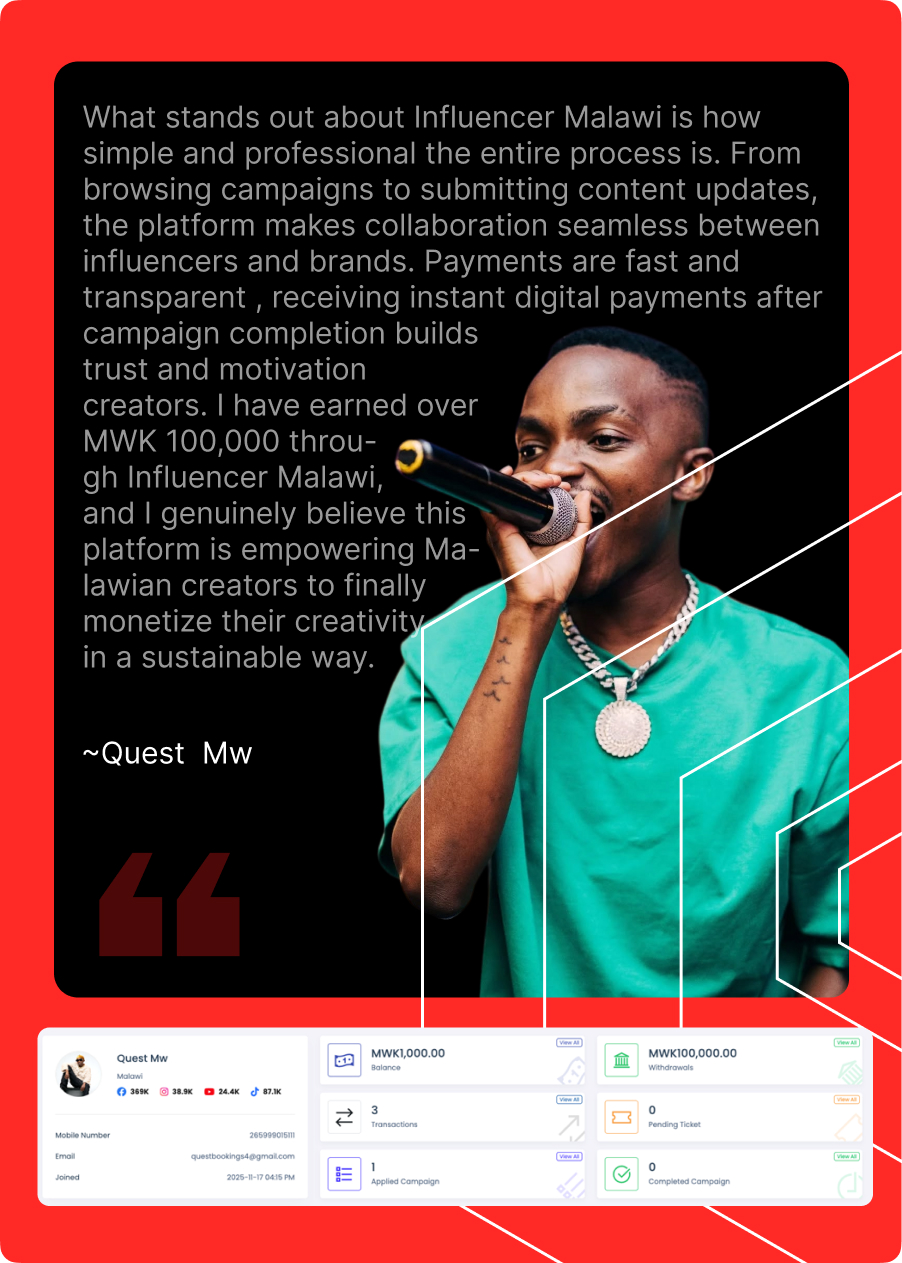
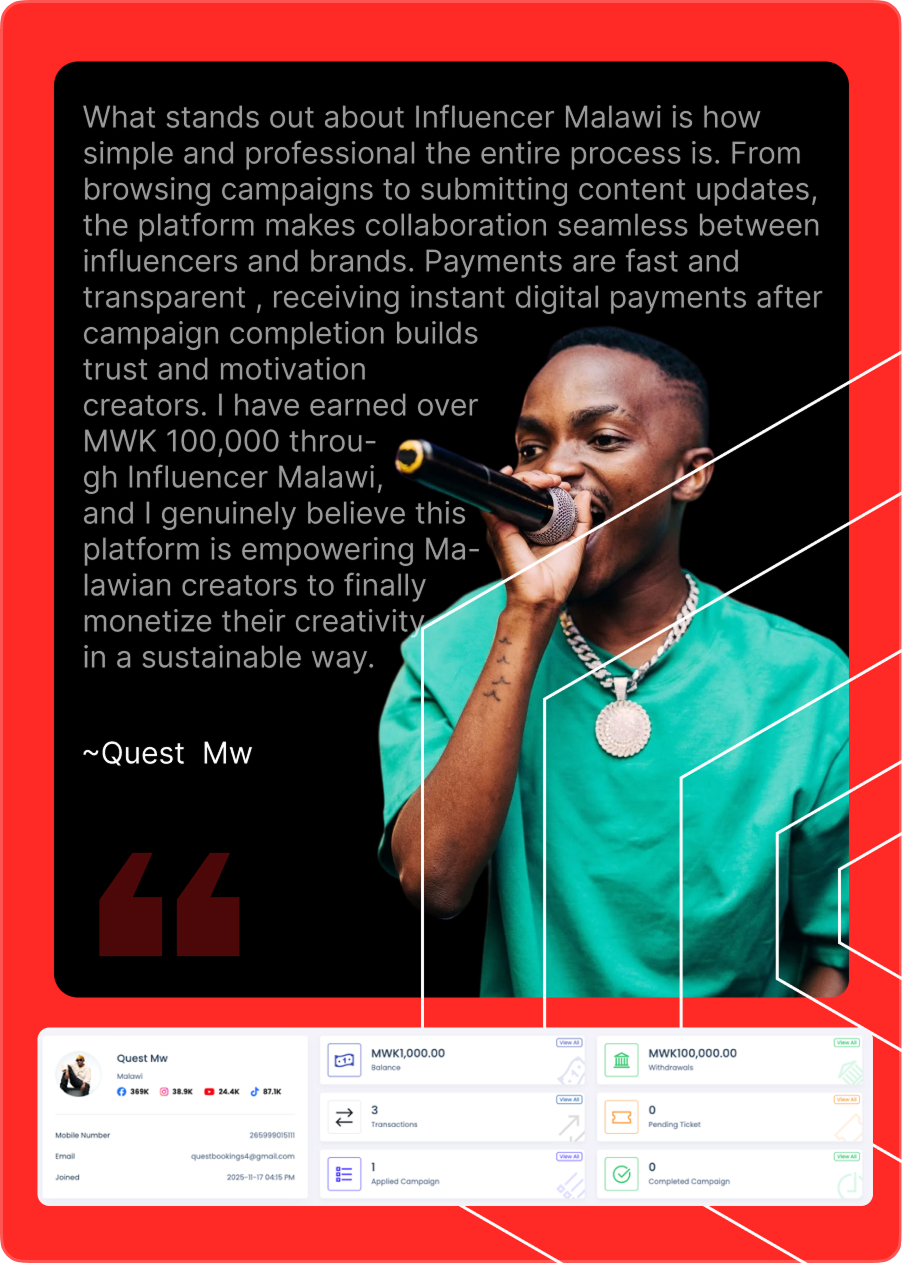
added leads desk and new poster

Changed region(s): [[0.0, 0.0, 1.0, 1.0]]

diff --git a/pages/leads_desk.html b/pages/leads_desk.html
@@ -287,7 +287,7 @@
             position: absolute;
             inset: 12px; /* same inset used for other card-media placeholders */
             border-radius: 14px;
-            background: #F7F7F7;
+            background: #EDEDEE;
             z-index: 1;
         }
         #first-grid-media img,
@@ -427,7 +427,7 @@
             position: absolute;
             inset: 0px;
             border-radius: 14px;
-            background: #F7F7F7;
+            background: #EAEAEB;
             z-index: 1;
             /* ensure placeholder has no shadow */
             box-shadow: none;
@@ -506,20 +506,20 @@
         <span class="project-text" tabindex="0">Projects</span>
         <!-- Action buttons aligned to the far right -->
         <div class="top-right-actions">
-            <a class="top-tag" href="https://salesverse-rho.vercel.app/" target="_blank" rel="noopener noreferrer">
+            <a class="top-tag" href="https://leads-desk-u2k4.vercel.app/" target="_blank" rel="noopener noreferrer">
                 <svg width="21" height="21" viewBox="0 0 24 24" fill="currentColor" style="flex-shrink:0;"><path d="M12 2C6.48 2 2 6.48 2 12s4.48 10 10 10 10-4.48 10-10S17.52 2 12 2zm-1 17.93c-3.95-.49-7-3.85-7-7.93 0-.62.08-1.21.21-1.79L9 15v1c0 1.1.9 2 2 2v1.93zm6.9-2.54c-.26-.81-1-1.39-1.9-1.39h-1v-3c0-.55-.45-1-1-1H8v-2h2c.55 0 1-.45 1-1V7h2c1.1 0 2-.9 2-2v-.41c2.93 1.19 5 4.06 5 7.41 0 2.08-.8 3.97-2.1 5.39z"/></svg>
                 View Website
             </a>
-<!--            <a class="top-tag" href="https://github.com/twambie62/track-it-website-2" target="_blank" rel="noopener noreferrer">-->
-<!--                <svg width="21" height="21" viewBox="0 0 24 24" fill="currentColor" style="flex-shrink:0;"><path d="M12 2C6.477 2 2 6.484 2 12.017c0 4.425 2.865 8.18 6.839 9.504.5.092.682-.217.682-.483 0-.237-.008-.868-.013-1.703-2.782.605-3.369-1.343-3.369-1.343-.454-1.158-1.11-1.466-1.11-1.466-.908-.62.069-.608.069-.608 1.003.07 1.531 1.032 1.531 1.032.892 1.53 2.341 1.088 2.91.832.092-.647.35-1.088.636-1.338-2.22-.253-4.555-1.113-4.555-4.951 0-1.093.39-1.988 1.029-2.688-.103-.253-.446-1.272.098-2.65 0 0 .84-.27 2.75 1.026A9.564 9.564 0 0112 6.844c.85.004 1.705.115 2.504.337 1.909-1.296 2.747-1.027 2.747-1.027.546 1.379.202 2.398.1 2.651.64.7 1.028 1.595 1.028 2.688 0 3.848-2.339 4.695-4.566 4.943.359.309.678.92.678 1.855 0 1.338-.012 2.419-.012 2.747 0 .268.18.58.688.482A10.019 10.019 0 0022 12.017C22 6.484 17.522 2 12 2z"/></svg>-->
-<!--                View Code-->
-<!--            </a>-->
+                        <a class="top-tag" href="https://github.com/twambie62/leads-desk" target="_blank" rel="noopener noreferrer">
+                            <svg width="21" height="21" viewBox="0 0 24 24" fill="currentColor" style="flex-shrink:0;"><path d="M12 2C6.477 2 2 6.484 2 12.017c0 4.425 2.865 8.18 6.839 9.504.5.092.682-.217.682-.483 0-.237-.008-.868-.013-1.703-2.782.605-3.369-1.343-3.369-1.343-.454-1.158-1.11-1.466-1.11-1.466-.908-.62.069-.608.069-.608 1.003.07 1.531 1.032 1.531 1.032.892 1.53 2.341 1.088 2.91.832.092-.647.35-1.088.636-1.338-2.22-.253-4.555-1.113-4.555-4.951 0-1.093.39-1.988 1.029-2.688-.103-.253-.446-1.272.098-2.65 0 0 .84-.27 2.75 1.026A9.564 9.564 0 0112 6.844c.85.004 1.705.115 2.504.337 1.909-1.296 2.747-1.027 2.747-1.027.546 1.379.202 2.398.1 2.651.64.7 1.028 1.595 1.028 2.688 0 3.848-2.339 4.695-4.566 4.943.359.309.678.92.678 1.855 0 1.338-.012 2.419-.012 2.747 0 .268.18.58.688.482A10.019 10.019 0 0022 12.017C22 6.484 17.522 2 12 2z"/></svg>
+                            View Code
+                        </a>
         </div>
     </div>
 
     <!-- Row 1: Title left, Tags right -->
     <div class="header-row-1">
-        <div class="header-title">SalesVerse Website:<br>A B2B lead-generation Agency</div>
+        <div class="header-title">LeadsDesk: Lead management system</div>
         <div class="header-tags">
             <span>UI/UX Design</span>
             <span>Web Design</span>
@@ -531,20 +531,20 @@
 
     <!-- Header image spanning full width -->
     <div class="header-hero-img" style="max-width:1200px; margin:0 auto 24px;">
-        <img class="header-main-img" src="../assets/images/portifolio/salesVerse/hero_section.png"
+        <img class="header-main-img" src="../assets/images/portifolio/leads_desk/dashboard.png"
              alt="Track It Landing Page"
-             style="width:100%; padding:48px; display:block; border-radius:20px; background:#F0F0F0; box-sizing:border-box;" />
+             style="width:100%; padding:48px; display:block; border-radius:20px; background:#EDEDEE; box-sizing:border-box;" />
     </div>
 
     <!-- Overview meta section -->
     <div class="proj-meta-card">
         <div class="proj-meta-col">
             <span class="proj-meta-label">Role</span>
-            <span class="proj-meta-value">UI Designer & Developer</span>
+            <span class="proj-meta-value">Developer</span>
         </div>
         <div class="proj-meta-col">
-            <span class="proj-meta-label">Client</span>
-            <span class="proj-meta-value">SalesVerse</span>
+            <span class="proj-meta-label">Type</span>
+            <span class="proj-meta-value">Personal</span>
         </div>
         <div class="proj-meta-col">
             <span class="proj-meta-label">Platform</span>
@@ -561,7 +561,7 @@
     <!-- Row 3: Description full width -->
     <div class="header-row-3">
         <div class="header-description">
-            A landing page for a B2B lead-generation and appointment-setting agency. The design emphasizes trust, credibility, and a clear value proposition, with a clean, professional layout built to convert visiting prospects into qualified leads.
+            A full-stack lead management system for sales teams, with separate dashboards for admins and agents. The design focuses on clarity and speed, covering the full lead lifecycle, follow-up tracking, reporting, and audit logs in a clean, organized interface that keeps teams focused on closing deals.
         </div>
     </div>
     <div class="overview-title">UI Designs</div>
@@ -569,7 +569,7 @@
     <div class="kwacha-grid" style="grid-template-columns:1fr;">
         <div class="kwacha-card">
             <div class="kwacha-media" id="first-grid-media">
-                <img id="first-grid-img" src="../assets/images/portifolio/salesVerse/landing_page.png" alt="Track It Landing Page" />
+                <img id="first-grid-img" src="../assets/images/portifolio/leads_desk/dashboard_full.png" alt="Track It Landing Page" />
             </div>
             <div class="kwacha-body"></div>
         </div>

diff --git a/index.html b/index.html
@@ -3388,6 +3388,23 @@
                         </article>
                     </a>
 
+                    <a href="pages/leads_desk.html" class="card-link" data-category="ui-design ">
+                        <article class="card">
+                            <div class="card-media" style="--card-bg-img: url('assets/images/projects/backgrounds/smart_apps_redesign.png');">
+                                <img src="assets/images/portifolio/leads_desk/dashboard.png" alt="Smart Apps Redesign">
+                                <div class="card-arrow"><i class="ri-arrow-right-up-line"></i></div>
+                            </div>
+                            <div class="card-body">
+                                <div class="card-title">LeadsDesk</div>
+                                <div class="card-desc">A full-stack lead management platform with admin and agent dashboards, follow-ups, and audit logging</div>
+                                <div class="card-tags">
+                                    <span>UI/UX</span>
+                                    <span>Web Design</span>
+                                </div>
+                            </div>
+                        </article>
+                    </a>
+
                     <a href="pages/sales_verse_website.html" class="card-link" data-category="ui-design ">
                         <article class="card">
                             <div class="card-media" style="--card-bg-img: url('assets/images/projects/backgrounds/sales_verse_2.png');">
@@ -3459,6 +3476,7 @@
                             </div>
                         </article>
                     </a>
+
                     <a class="card-link" data-category="poster">
                         <article class="card">
                             <div class="card-media" style="--card-bg-img: url('assets/images/projects/backgrounds/courier_app.png');">
@@ -3490,6 +3508,23 @@
                                 </div>
                             </div>
                         </article>
+                    </a>
+                    <a class="card-link" data-category="poster">
+
+                    <article class="card">
+                        <div class="card-media" style="--card-bg-img: url('assets/images/projects/backgrounds/influencer_malawi_app.png');">
+                                                    <img src="assets/images/portifolio/posters/testimonial.jpg" alt="Testimonial">
+                                                    <div class="card-arrow"><i class="ri-arrow-right-up-line"></i></div>
+                                                </div>
+                                                <div class="card-body">
+                                                    <div class="card-title">Influencer Malawi Testimonial</div>
+                                                    <div class="card-desc">Testimonial graphic design for Influencer Malawi platform.</div>
+                                                    <div class="card-tags">
+                                                        <span>Graphic Design</span>
+                                                        <span>Poster Design</span>
+                                                    </div>
+                                                </div>
+                                            </article>
                     </a>
 
                 </div>

diff --git a/pages/nyanja_health_website.html b/pages/nyanja_health_website.html
@@ -521,7 +521,7 @@
   <div class="header-row-1">
     <div class="header-title">Nyanja health Research Institute Website<br></div>
     <div class="header-tags">
-      <span>UI/UX Design & Developer</span>
+      <span>UI/UX Design</span>
       <span>Web Design</span>
       <span>Figma</span>
       <span>Product Design</span>
@@ -540,7 +540,7 @@
   <div class="proj-meta-card">
     <div class="proj-meta-col">
       <span class="proj-meta-label">Role</span>
-      <span class="proj-meta-value">UI Designer</span>
+      <span class="proj-meta-value">UI Designer & Developer</span>
     </div>
     <div class="proj-meta-col">
       <span class="proj-meta-label">Client</span>
